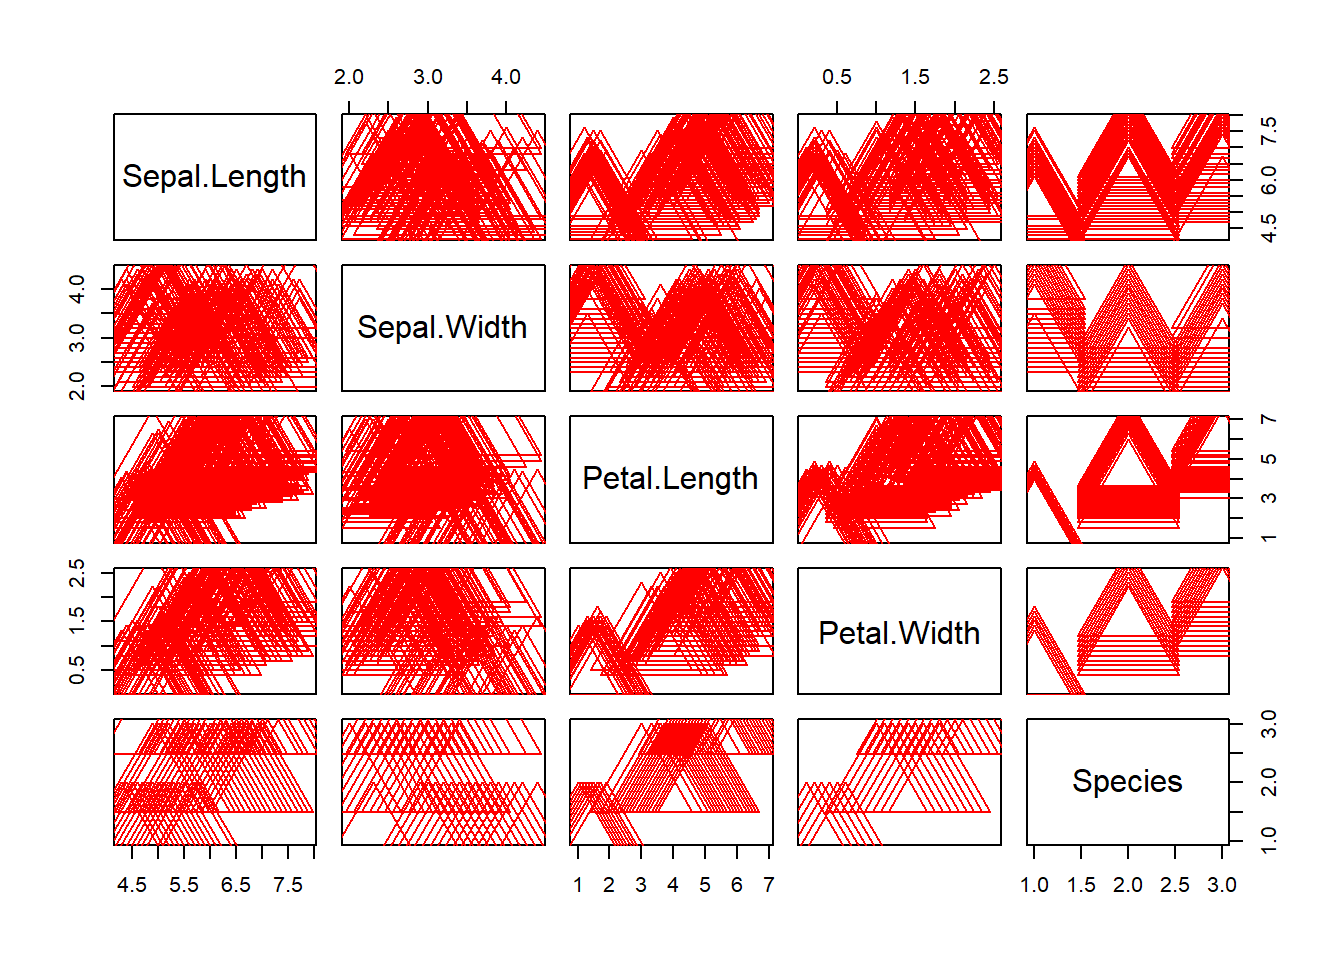
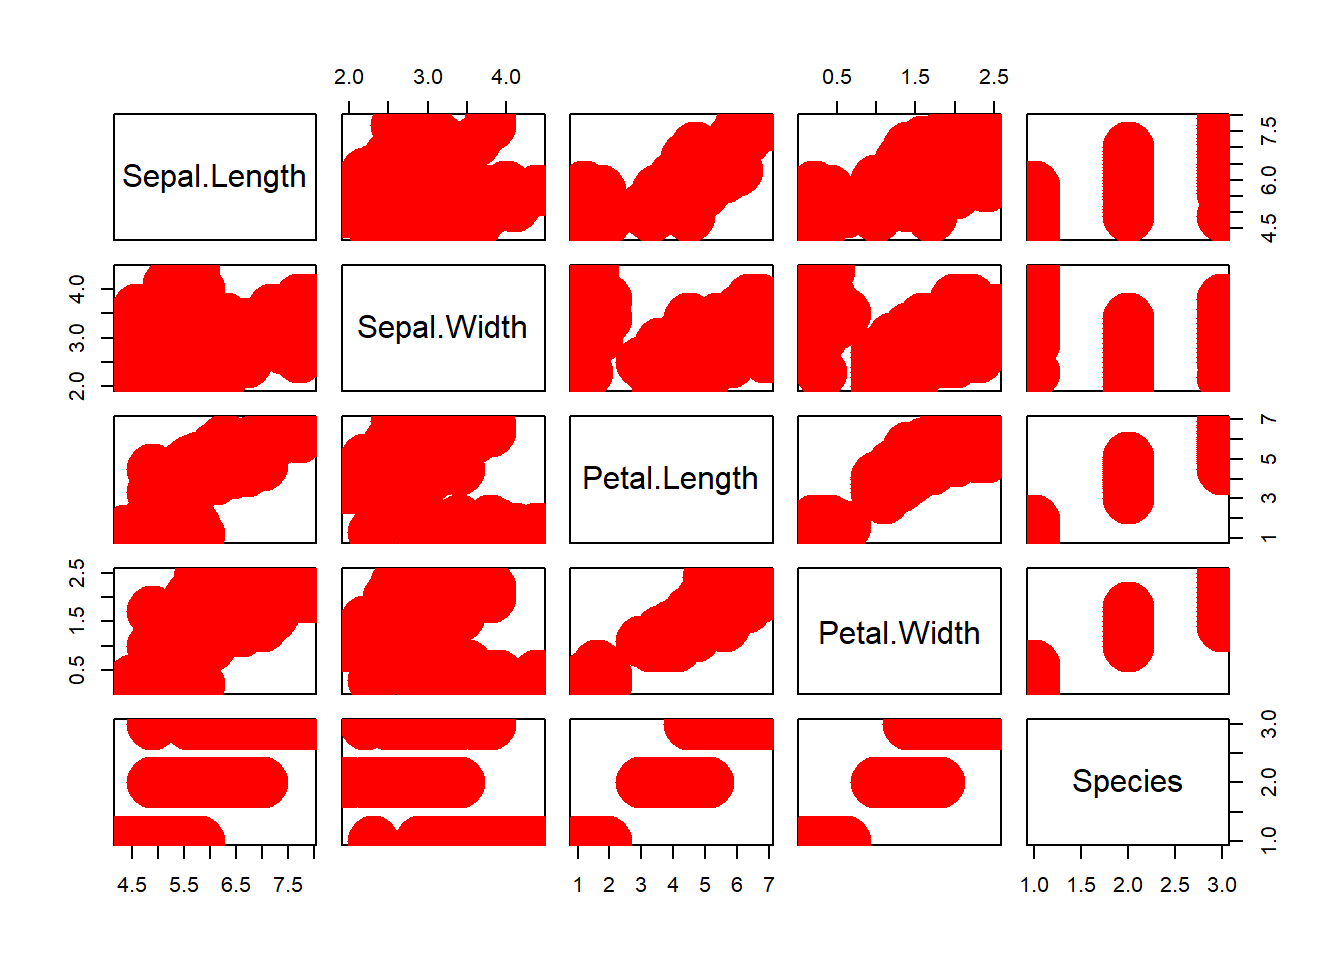
Add files via upload

diff --git a/index.html b/index.html
@@ -134,6 +134,11 @@ pre > code.sourceCode > span > a:first-child::before { text-decoration: underlin
     <a class="nav-link" href="./resaerch.qmd"> 
 <span class="menu-text"></span></a>
   </li>  
+  <li class="nav-item">
+    <span class="nav-link">
+<span class="menu-text">resaerch</span>
+    </span>
+  </li>  
 </ul>
           </div> <!-- /navcollapse -->
             <div class="quarto-navbar-tools">
@@ -172,7 +177,7 @@ pre > code.sourceCode > span > a:first-child::before { text-decoration: underlin
 
 <p>Welcome to my house</p>
 <div class="cell">
-<div class="sourceCode cell-code" id="cb1"><pre class="sourceCode r code-with-copy"><code class="sourceCode r"><span id="cb1-1"><a href="#cb1-1" aria-hidden="true" tabindex="-1"></a><span class="fu">plot</span>(iris,<span class="at">col=</span><span class="st">"red"</span>,<span class="at">pch=</span><span class="fl">2.</span>,<span class="at">cex=</span><span class="dv">8</span>)</span></code><button title="Copy to Clipboard" class="code-copy-button"><i class="bi"></i></button></pre></div>
+<div class="sourceCode cell-code" id="cb1"><pre class="sourceCode r code-with-copy"><code class="sourceCode r"><span id="cb1-1"><a href="#cb1-1" aria-hidden="true" tabindex="-1"></a><span class="fu">plot</span>(iris,<span class="at">col=</span><span class="st">"red"</span>,<span class="at">pch=</span><span class="fl">20.</span>,<span class="at">cex=</span><span class="dv">8</span>)</span></code><button title="Copy to Clipboard" class="code-copy-button"><i class="bi"></i></button></pre></div>
 <div class="cell-output-display">
 <div>
 <figure class="figure">
